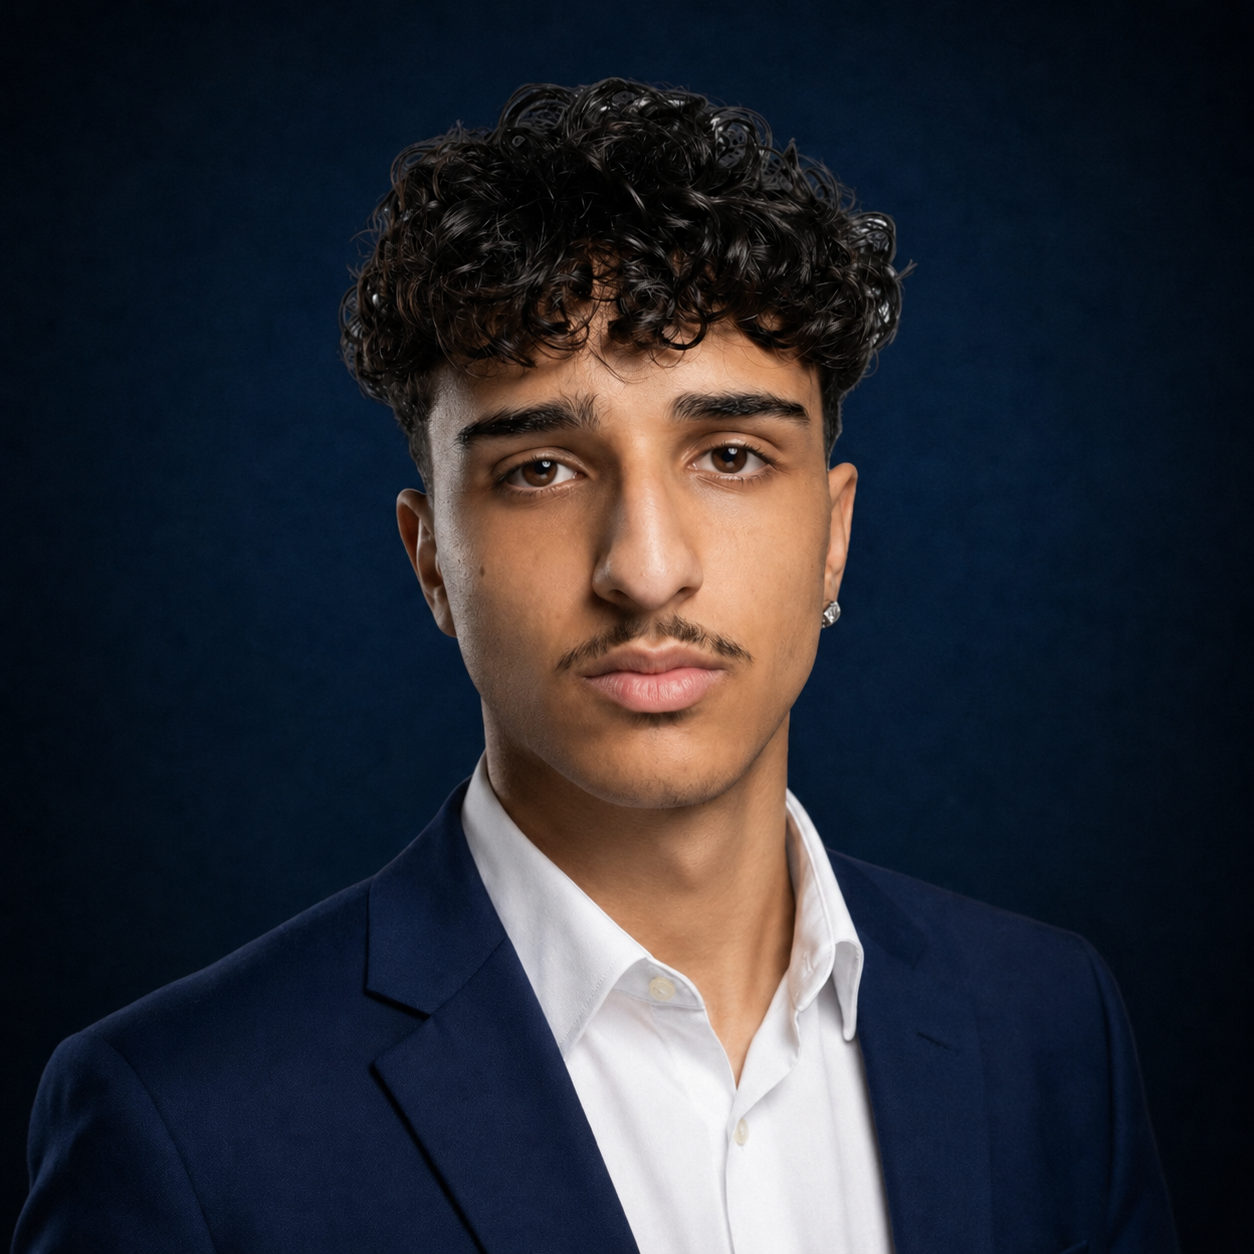
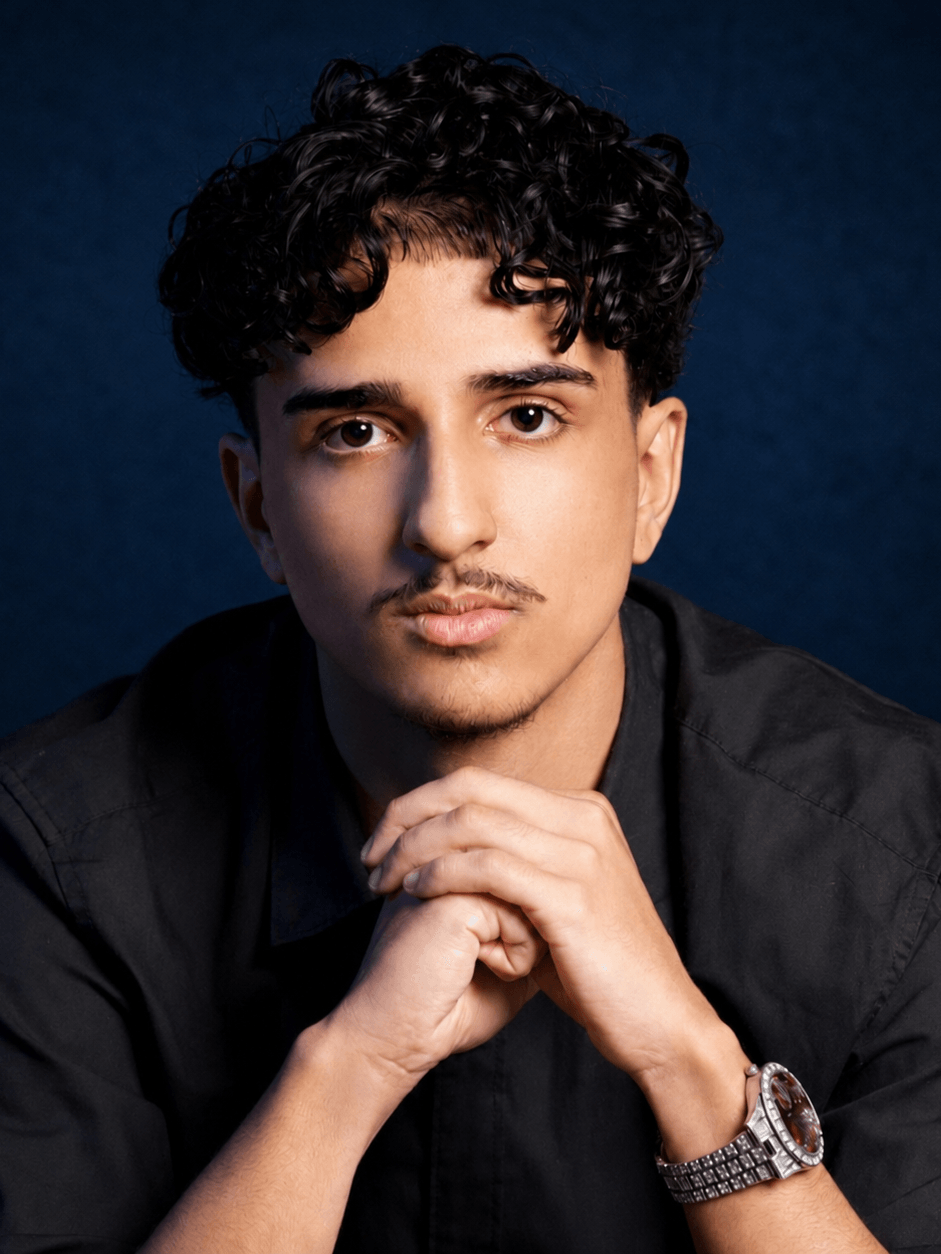
feat(uae): update Mateus Brasil photo, remove Chloe and Luiz from team
Replace mateus-brasil.png with a new 3:4 portrait (941x1254, 0.53MB,
down from a 1254x1254 square at 1.90MB) so it matches the framing of
the other team cards.

Remove Chloe Vieira and Luiz Neves from the team carousel across all
three locales (pt, en, ar). Team.jsx had a hardcoded N = 8; it now
derives the count from members.length so the carousel stays centered
and evenly spaced with any number of members.

diff --git a/src/i18n/translations.js b/src/i18n/translations.js
@@ -90,8 +90,6 @@ export const T = {
         { name: "Kaiky Tuler",     role: "Head de Tráfego",          img: "/equipe/kaiky-tuler.png" },
         { name: "Mateus Brasil",   role: "Head de I.A e Automação",  img: "/equipe/mateus-brasil.png" },
         { name: "Audrey Doanne",   role: "Diretora de Arte",         img: "/equipe/audrey-doanne.png" },
-        { name: "Luiz Neves",      role: "Gerente Comercial",        img: "/equipe/luiz-neves.png" },
-        { name: "Chloe Vieira",    role: "Social Media",             img: "/equipe/chloe-vieira.png" },
       ],
       ariaPrev: "Anterior",
       ariaNext: "Próximo",
@@ -288,8 +286,6 @@ export const T = {
         { name: "Kaiky Tuler",     role: "Head of Traffic",         img: "/equipe/kaiky-tuler.png" },
         { name: "Mateus Brasil",   role: "Head of AI & Automation", img: "/equipe/mateus-brasil.png" },
         { name: "Audrey Doanne",   role: "Art Director",            img: "/equipe/audrey-doanne.png" },
-        { name: "Luiz Neves",      role: "Commercial Manager",      img: "/equipe/luiz-neves.png" },
-        { name: "Chloe Vieira",    role: "Social Media",            img: "/equipe/chloe-vieira.png" },
       ],
       ariaPrev: "Previous",
       ariaNext: "Next",
@@ -486,8 +482,6 @@ export const T = {
         { name: "Kaiky Tuler",     role: "رئيس قسم الإعلانات",         img: "/equipe/kaiky-tuler.png" },
         { name: "Mateus Brasil",   role: "رئيس قسم الذكاء الاصطناعي", img: "/equipe/mateus-brasil.png" },
         { name: "Audrey Doanne",   role: "مديرة الفنون",               img: "/equipe/audrey-doanne.png" },
-        { name: "Luiz Neves",      role: "المدير التجاري",             img: "/equipe/luiz-neves.png" },
-        { name: "Chloe Vieira",    role: "وسائل التواصل الاجتماعي",    img: "/equipe/chloe-vieira.png" },
       ],
       ariaPrev: "السابق",
       ariaNext: "التالي",

diff --git a/src/components/Team.jsx b/src/components/Team.jsx
@@ -3,16 +3,15 @@ import styled, { keyframes } from 'styled-components';
 import { useLang } from '../context/LanguageContext';
 import { T } from '../i18n/translations';
 
-const N = 8; // number of team members (must match translations)
 const CARD_W = 300;
 const CARD_H = 400;
 const STEP    = 324; // center-to-center distance
 const AUTO_MS = 4500;
 
 /* wrapping signed distance */
-function wdist(i, cur) {
-  let d = ((i - cur) % N + N) % N;
-  if (d > N / 2) d -= N;
+function wdist(i, cur, n) {
+  let d = ((i - cur) % n + n) % n;
+  if (d > n / 2) d -= n;
   return d;
 }
 
@@ -238,6 +237,7 @@ export default function Team() {
   const { lang } = useLang();
   const t = T[lang].team;
   const members = t.members;
+  const N = members.length;
   const [cur, setCur]       = useState(0);
   const [animKey, setAnimKey] = useState(0);
   const [pct, setPct]       = useState(0);
@@ -250,7 +250,7 @@ export default function Team() {
     setAnimKey(k => k + 1);
     setPct(0);
     t0Ref.current = performance.now();
-  }, []);
+  }, [N]);
 
   const prev = () => goTo(cur - 1);
   const next = useCallback(() => goTo(cur + 1), [cur, goTo]);
@@ -284,7 +284,7 @@ export default function Team() {
       {/* ── full-bleed carousel ── */}
       <TrackOuter>
         {members.map((m, i) => {
-          const d    = wdist(i, cur);
+          const d    = wdist(i, cur, N);
           const absD = Math.abs(d);
 
           if (absD > 3) return null;
